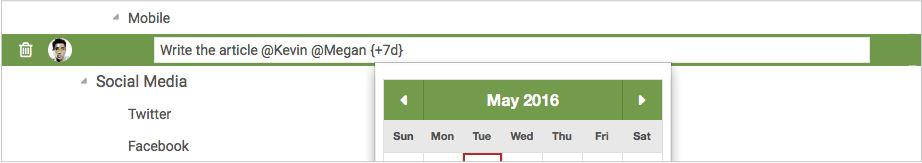
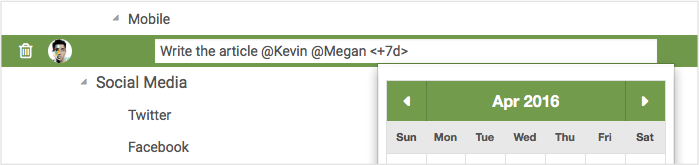
replace <> with {}

diff --git a/_site/p/Type-it-while-you-think-it.html b/_site/p/Type-it-while-you-think-it.html
@@ -3,7 +3,7 @@
 
   <head>
     <!-- meta tag for social website: facebook -->
-    <meta property="og:title" content="Type it while you think it, with @, #, {} and more.">
+    <meta property="og:title" content="Type it while you think it, with @, #, <> and more.">
     <meta property="og:type" content="article">
     <meta property="og:url" content="https://quire.io/blog/p/Type-it-while-you-think-it.html">
     <meta property="og:image" content="https://quire.io/blog2016-04-26-Type-it-while-you-think-it/0.png">
@@ -31,9 +31,7 @@
 
     
       
-      <meta property="article:tag" content="filter">
-      
-      <meta property="article:tag" content="draganddrop">
+      <meta property="article:tag" content="shortcuts">
       
       <meta property="article:tag" content="productivity">
       
@@ -43,7 +41,7 @@
 
     <!-- meta tag for social website: twitter -->
     <meta name="twitter:card" content="summary">
-    <meta name="twitter:title" content="Type it while you think it, with @, #, {} and more.">
+    <meta name="twitter:title" content="Type it while you think it, with @, #, <> and more.">
     <meta name="twitter:description" content="">
     <meta name="twitter:image" content="https://quire.io/blog2016-04-26-Type-it-while-you-think-it/0.png">
     <meta name="twitter:url" content="https://quire.io/blog/p/Type-it-while-you-think-it.html">
@@ -64,7 +62,7 @@
 
     <meta http-equiv="X-UA-Compatible" content="IE=edge">
 
-    <title>Type it while you think it, with @, #, {} and more.</title>
+    <title>Type it while you think it, with @, #, <> and more.</title>
     <meta name="description" content="">
     <meta name="viewport" content="width=device-width, initial-scale=1, maximum-scale=1, user-scalable=no" />
     <meta charset="utf-8" />
@@ -190,7 +188,7 @@
     <h5 class="category">
       <a href="/blog/category/features">features</a> · <span>Apr 26, 2016<span>
     </h5>
-    <h2 class="title">Type it while you think it, with @, #, {} and more.</h2>
+    <h2 class="title">Type it while you think it, with @, #, <> and more.</h2>
     <h5 class="author">
       <img src="/blog/images/author/crystal.png">
       <div>
@@ -200,10 +198,10 @@
     </h5>
     <div class="share">
       
-      <a href="http://twitter.com/share?text=Type it while you think it, with @, #, {} and more.&url=https://quire.io/blog/p/Type-it-while-you-think-it.html&via=quire_io" class="twitter" target="_blank"></a>
+      <a href="http://twitter.com/share?text=Type it while you think it, with @, #, <> and more.&url=https://quire.io/blog/p/Type-it-while-you-think-it.html&via=quire_io" class="twitter" target="_blank"></a>
       <a href="http://www.facebook.com/sharer.php?u=https://quire.io/blog/p/Type-it-while-you-think-it.html" class="fb" target="_blank"></a>
       <a href="https://plus.google.com/share?url=https://quire.io/blog/p/Type-it-while-you-think-it.html" target="_blank" class="gplus"></a>
-      <a href="http://www.linkedin.com/shareArticle?mini=true&url=https://quire.io/blog/p/Type-it-while-you-think-it.html&title=Type it while you think it, with @, #, {} and more.&summary=&source=" target="_blank" class="in"></a>
+      <a href="http://www.linkedin.com/shareArticle?mini=true&url=https://quire.io/blog/p/Type-it-while-you-think-it.html&title=Type it while you think it, with @, #, <> and more.&summary=&source=" target="_blank" class="in"></a>
     </div>
     <span class="clearfix"></span>
   </div>
@@ -212,39 +210,39 @@
 
 <p>Today, you’re bound to have a Q-shaped smile on your face, because we’ve got special productivity-boosting tips for everyone, especially those who’re addicted to keeping your hands on the keyboard! Now, you no longer need to switch between keyboard and mouse while adding and prepping your task.</p>
 
-<p>So what are they? They’re smart keyboard shortcuts. They can help you add assignees, tags and due dates quickly, and more naturally in a single line.</p>
+<p>So what are they? They’re <em>smart</em> keyboard shortcuts. They can help you add assignees, tags and due dates quickly, and more naturally in a single line.</p>
 
 <h2 id="when-you-add-a-new-task">When you add a new task...</h2>
 
 <p>You may want to get David to write an article that’s related to design by May 2nd.</p>
 
-<p>Simply add a task, and type “Write the article <strong>@David #Design {5/2}</strong>” and press Enter.</p>
+<p>Simply add a task, and type “Write the article <strong>@David #Design <5/2></strong>” and press Enter.</p>
 
-<div style="max-width: 700px; max-height: 128px; margin: 0 auto;">
+<div style="max-width: 450; max-height: 110; margin: 0 auto;">
 
 <p><img src="/blog/images/2016-04-26-Type-it-while-you-think-it/1.png" alt="My helpful screenshot" /></p>
 
 </div>
 
-<p>Your task would, of course, be automatically assigned to David, and a due date of May 2nd and the tag Design and.</p>
+<p>Your task would, of course, be automatically assigned to David, and a due date of May 2nd and the tag Design.</p>
 
-<div style="max-width: 700px; max-height: 77px; margin: 0 auto;">
+<div style="max-width: 450; max-height: 68; margin: 0 auto;">
 
 <p><img src="/blog/images/2016-04-26-Type-it-while-you-think-it/2.png" alt="My helpful screenshot" /></p>
 
 </div>
 
-<p>Obviously, when you type @, # or {}, you can use the Up or Down arrow key to select the assignee, tag or due date you want.</p>
+<p>Obviously, when you type @, # or &lt;&gt;, you can use the Up or Down arrow key to select the assignee, tag or due date you want.</p>
 
-<h4 id="note-you-can-see-all-the-input-date-formats-allowed-here"><em>Note: You can see all the input date formats allowed <a href="https://quire.io/w/Getting_Started_with_Quire/85/Auto-set_a_due_date">here</a>.</em></h4>
+<h4 id="note-you-can-see-all-the-input-date-formats-allowed-here">Note: You can see all the input date formats allowed <a href="https://quire.io/w/Getting_Started_with_Quire/85/Auto-set_a_due_date">here</a>.</h4>
 
-<h2 id="when-you-edit-a-task…">When you edit a task…</h2>
+<h2 id="when-you-edit-a-task">When you edit a task…</h2>
 
 <p>You may want to add or change the assignee, tag and due date of an existing task.</p>
 
-<p>It’s like what you’d do when you’re adding a new task. For example, you can type “Write the article <strong>@Kevin @Megan {+7d}</strong>” and press Enter.</p>
+<p>It’s like what you’d do when you’re adding a new task. For example, you can type “Write the article <strong>@Kevin @Megan &lt;+7d&gt;</strong>” and press Enter.</p>
 
-<div style="max-width: 700px; max-height: 124px; margin: 0 auto;">
+<div style="max-width: 450; max-height: 106; margin: 0 auto;">
 
 <p><img src="/blog/images/2016-04-26-Type-it-while-you-think-it/3.png" alt="My helpful screenshot" /></p>
 
@@ -252,23 +250,23 @@
 
 <p>What happens is that this task would be assigned to both Kevin and Megan instead, and has a new due date of May 9th.</p>
 
-<div style="max-width: 700px; max-height: 76px; margin: 0 auto;">
+<div style="max-width: 450; max-height: 71; margin: 0 auto;">
 
 <p><img src="/blog/images/2016-04-26-Type-it-while-you-think-it/4.png" alt="My helpful screenshot" /></p>
 
 </div>
 
-<h2 id="wait-there’s-more">Wait, there’s more!</h2>
+<h2 id="wait-there-s-more">Wait, there’s more!</h2>
 
 <p>There might be a couple extra useful shortcuts you’re not aware of.</p>
 
-<p>To add a task, you can simply press <strong>Ctrl+Enter</strong>. You can even press <strong>Tab</strong> or <strong>Shift+Tab</strong> to make it a subtask (indent) or task (unindent).</p>
+<p>To add a task, you can simply press <strong>Ctrl+Enter</strong>. You can even press <strong>Tab</strong> or <strong>Shift+Tab</strong> to make it a subtask (indent) or task (unindent) while you&#39;re typing the task name.</p>
 
 <p>After you’ve added a task, you can still move it horizontally by pressing <strong>Ctrl+Left</strong> or <strong>Ctrl+Right</strong>. To move it vertically, press <strong>Ctrl+Up</strong> or <strong>Ctrl+Down</strong>.</p>
 
-<p>To delete a task? Like you might have guessed, press <strong>Ctrl+Backspace</strong>.</p>
+<p>To delete a task? Like you might have guessed, press <strong>Ctrl+Delete</strong>.</p>
 
-<p>We’re bringing you the smart shortcuts because it’s natural that when you’re adding a task, you already have an idea who should do it, what priority it should have, and when it should be done. So, instead of choosing them after you add a task, you can now do them all together with <strong>@</strong>, <strong>#</strong> and <strong>{}</strong>.</p>
+<p>We’re bringing you the <em>smart</em> shortcuts because it’s natural that when you’re adding a task, you already have an idea who should do it, what priority it should have, and when it should be done. So, instead of choosing them after you add a task, you can now do them all together with <strong>@</strong>, <strong>#</strong> and <strong>&lt;&gt;</strong>.</p>
 
 <p>There are also a whole other <a href="https://quire.io/w/Getting_Started_with_Quire/11/Navigate_with_shortc...">shortcuts</a> in store you can check out!</p>
 </div>

diff --git a/_site/p/Make-your-Product-Backlog-Speak-the-Whole-Story.html b/_site/p/Make-your-Product-Backlog-Speak-the-Whole-Story.html
@@ -215,7 +215,7 @@
 <p>contains an ordered list of requirements often written in a User Story form. These fragmented “stories” do not give us a clear picture of what the Product is, or what values they bring as a whole.
 The <em>Product Owner</em>, the <em>Development Team</em> and <em>stakeholders</em> all depend on this backlog to fill their roles in Scrum yet this very backbone which they rely on does not present a mental image of the product that’s needed for the team to bring out the product’s value or advantage.</p>
 
-<h3 id="imagine-you’re-a-stakeholder-of-our-latest-task-management-software—-quire">Imagine you’re a stakeholder of our latest task management software— <a href="https://quire.io/">Quire</a></h3>
+<h3 id="imagine-you-re-a-stakeholder-of-our-latest-task-management-software-quire">Imagine you’re a stakeholder of our latest task management software— <a href="https://quire.io/">Quire</a></h3>
 
 <p>and
 you’ll have access to a <em>Product Backlog</em>
@@ -229,7 +229,7 @@ that, by convention, looks something like the list below:</p>
 
 <p>Each of these <em>user stories</em> is self sufficient in portraying a requirement; however, by sorting them with respect to their Return On Investment, we&#39;ve taken each item out of their context—the core value that they contribute to the product.</p>
 
-<h3 id="instead-let’s-try-a-different-approach-in-creating-a-product-backlog-for-quire-with-quire">Instead, let’s try a different approach in creating a Product Backlog for Quire, with <a href="https://quire.io/">Quire</a></h3>
+<h3 id="instead-let-s-try-a-different-approach-in-creating-a-product-backlog-for-quire-with-quire">Instead, let’s try a different approach in creating a Product Backlog for Quire, with <a href="https://quire.io/">Quire</a></h3>
 
 <blockquote>
 <p><strong>We first put down the core values that drive the development of our product:</strong></p>
@@ -272,7 +272,7 @@ If we make the analogy that the product is a tree, then the the epics would be t
 
 </div>
 
-<h4 id="although-it’s-best-to-estimate-efforts-on-tasks-as-a-group-in-a-meeting-room-with-team-members-often-reside-on-different-continents-quire’s-live-chat-feature-is-a-good-alternative">Although it’s best to estimate efforts on tasks as a group in a meeting room, with team members often reside on different continents, Quire’s live chat feature is a good alternative</h4>
+<h4 id="although-it-s-best-to-estimate-efforts-on-tasks-as-a-group-in-a-meeting-room-with-team-members-often-reside-on-different-continents-quire-s-live-chat-feature-is-a-good-alternative">Although it’s best to estimate efforts on tasks as a group in a meeting room, with team members often reside on different continents, Quire’s live chat feature is a good alternative</h4>
 
 <p>During the <em>Spring Planning Meeting</em>, when it comes to picking the items to commit to the next Sprint, team can then use <a href="https://quire.io/">Quire</a>’s filter function to display only the items that are of immediate concern:</p>
 

diff --git a/_site/p/Quire-A-design-hiding-complexity-in-simplicity.html b/_site/p/Quire-A-design-hiding-complexity-in-simplicity.html
@@ -261,7 +261,7 @@
 <p><strong>Now, let’s explore into the design thinking for each of the sections;</strong></p>
 </blockquote>
 
-<h2 id="side-bar — like-a-menu">Side bar — like a menu</h2>
+<h2 id="side-bar-like-a-menu">Side bar — like a menu</h2>
 
 <p>The purpose of the side bar sort of acts like a menu. Unlike a menu of a restaurant which I’m sure you would be willing to take the time to flip back and forth, it is highly unlikely you’d want to do the same to start a day of work like this every morning. To avoid this kind of hassle, we decided to show all the organization and projects you belong to at one glance instead of having to for example drop down a organization before you could see what projects are in it. Having said this, we also wanted it to keep it as simple but as the same time as informative as possible. Therefore we made the appearance of organization and projects different by giving them a different font style. For additional information we display the number of tasks next to the related project.</p>
 
@@ -277,7 +277,7 @@
 
 <hr>
 
-<h2 id="task-list — crystal-clear-tree-structure">Task list — crystal clear tree structure</h2>
+<h2 id="task-list-crystal-clear-tree-structure">Task list — crystal clear tree structure</h2>
 
 <p>If you were a heavy user of powerpoint in high school like me, you gotta love how each slide has a title, some bullet points and sub-bullet points in each bullet point — everything is so crystal clear, like Aladdin and Jasmine on the magic carpet. Well, this is what is commonly known as the “tree structure” or a “hierarchical list” which is conceptualized and used in Quire, showing all your tasks in a hierarchical order.</p>
 
@@ -311,7 +311,7 @@
 
 <hr>
 
-<h2 id="task-detail-panel — meaningful-communication">Task detail panel — meaningful communication</h2>
+<h2 id="task-detail-panel-meaningful-communication">Task detail panel — meaningful communication</h2>
 
 <p>Obviously, not every project or task is so simple and straight forward. Sometimes, you need to add some details, references, or discuss a particular task with your colleagues — these are shown in the detail panel. During our design process we were trying hard to keep this as simple as possible. In the end, we achieved simplicity by the extensive use of progressive disclosure: Want to see more than the first two lines of a description? Expand it. Want to see all activities related to your task? Expand it. Want to write a comment? Click the input field and it automatically expands and gives you more options for your comment.</p>
 

diff --git a/_site/p/See-What-Matters-to-You-with-Filter.html b/_site/p/See-What-Matters-to-You-with-Filter.html
@@ -214,7 +214,7 @@
 
 <p>One way to do this and not be distracted by the remaining tasks is via the “<strong>filter</strong>” function. Simply decide how you would like to see your tasks, and follow the steps.</p>
 
-<h2 id="first-click-on-the-filter-icon…">First, click on the filter icon…</h2>
+<h2 id="first-click-on-the-filter-icon">First, click on the filter icon…</h2>
 
 <p>By clicking on the filter icon below the project’s name, you will see a menu bar.</p>
 
@@ -262,7 +262,7 @@
 
 <hr>
 
-<h2 id="when-you-sort-by…">When you sort by…</h2>
+<h2 id="when-you-sort-by">When you sort by…</h2>
 
 <h3 id="date"><strong>Date</strong></h3>
 
@@ -296,7 +296,7 @@
 
 </div>
 
-<h4 id="note-you-can-click-on-“clear”-in-the-menu-bar-whenever-you-want-to-return-to-the-default-status-which-is-“active-tasks”-without-any-filtering">Note: You can click on “Clear” in the menu bar whenever you want to return to the default status, which is “Active Tasks” without any filtering.</h4>
+<h4 id="note-you-can-click-on-clear-in-the-menu-bar-whenever-you-want-to-return-to-the-default-status-which-is-active-tasks-without-any-filtering">Note: You can click on “Clear” in the menu bar whenever you want to return to the default status, which is “Active Tasks” without any filtering.</h4>
 
 <div style="max-width: 513px; max-height: 40px; margin: 0 auto;">
 
@@ -306,7 +306,7 @@
 
 <hr>
 
-<h2 id="next-when-you-filter-by…">Next, when you filter by…</h2>
+<h2 id="next-when-you-filter-by">Next, when you filter by…</h2>
 
 <h3 id="tag"><strong>Tag</strong></h3>
 

diff --git a/_site/p/Roles-&-Permissions-in-Quire.html b/_site/p/Roles-&-Permissions-in-Quire.html
@@ -224,7 +224,7 @@
 
 <h2 id="project"><strong>Project</strong></h2>
 
-<h3 id="what-you-can-do-in-a-project-if-you-are…">What you can do in a project if you are…</h3>
+<h3 id="what-you-can-do-in-a-project-if-you-are">What you can do in a project if you are…</h3>
 
 <div style="max-width: 877px; max-height: 600px; margin: 0 auto;">
 
@@ -236,7 +236,7 @@
 
 <h2 id="organization"><strong>Organization</strong></h2>
 
-<h3 id="what-you-can-do-with-an-organization-if-you-are…">What you can do with an organization if you are…</h3>
+<h3 id="what-you-can-do-with-an-organization-if-you-are">What you can do with an organization if you are…</h3>
 
 <div style="max-width: 877px; max-height: 231px; margin: 0 auto;">
 
@@ -250,7 +250,7 @@
 
 <h2 id="external-team"><strong>External Team</strong></h2>
 
-<h3 id="what-you-can-do-in-an-external-team-if-you-are…">What you can do in an external team if you are…</h3>
+<h3 id="what-you-can-do-in-an-external-team-if-you-are">What you can do in an external team if you are…</h3>
 
 <div style="max-width: 877px; max-height: 508px; margin: 0 auto;">
 

diff --git a/_site/p/Our-Very-Own-Markdown.html b/_site/p/Our-Very-Own-Markdown.html
@@ -231,7 +231,7 @@
 
 <p>To create a list, add an asterisk and a space before your items. It is just like what you would do if you were using Word or Page, but easier and quicker.</p>
 
-<h3 id="wait-there’s-more"><strong>Wait, there’s more!</strong></h3>
+<h3 id="wait-there-s-more"><strong>Wait, there’s more!</strong></h3>
 
 <p>Sometimes, words just are not enough. Thankfully, you can use emoji icons in the description and comment of a task. If you type a colon, a list of emoji will automatically show up:</p>
 

diff --git a/_site/index.html b/_site/index.html
@@ -173,7 +173,7 @@
         <div class="post-meta">
           <div class="left-meta">
             <h5 class="category">features</h5>
-            <a href="/blog/p/Type-it-while-you-think-it.html" class="title">Type it while you think it, with @, #, {} and more.</a>
+            <a href="/blog/p/Type-it-while-you-think-it.html" class="title">Type it while you think it, with @, #, <> and more.</a>
             <h5 class="author">
               POSTED BY Crystal Chen · Apr 26, 2016
             </h5>

diff --git a/_site/p/A-plan-well-laid-a-party-well-played.html b/_site/p/A-plan-well-laid-a-party-well-played.html
@@ -56,7 +56,7 @@
     <link rel="canonical" href="https://quire.io/blog/p/A-plan-well-laid-a-party-well-played.html">
 
     
-      <link rel="next" href="https://quire.io/blog/p/Type-it-while-you-think-it.html" title="Type it while you think it, with @, #, {} and more.">
+      <link rel="next" href="https://quire.io/blog/p/Type-it-while-you-think-it.html" title="Type it while you think it, with @, #, <> and more.">
     
 
     

diff --git a/_site/p/Why-We-Abandoned-the-To-Do-List.html b/_site/p/Why-We-Abandoned-the-To-Do-List.html
@@ -296,7 +296,7 @@
 
 <hr>
 
-<h3 id="our-solution-is-to-preserve-tasks’-natural-hierarchy-in-a-tree-structure">Our solution is to preserve tasks’ natural hierarchy in a tree structure</h3>
+<h3 id="our-solution-is-to-preserve-tasks-natural-hierarchy-in-a-tree-structure">Our solution is to preserve tasks’ natural hierarchy in a tree structure</h3>
 
 <div style="max-width: 600px; max-height: 317px; margin: 0 auto;">
 

diff --git a/_site/p/Template-for-Your-Projects-and-Tasks.html b/_site/p/Template-for-Your-Projects-and-Tasks.html
@@ -324,7 +324,7 @@
 
 <p>Now, when you have similar projects in your organization or similar tasks across your project, you know how to make a template for them.</p>
 
-<h2 id="there’ll-be-more-to-come"><div style="text-align:center;">There’ll be more to come!<div></h2>
+<h2 id="there-ll-be-more-to-come"><div style="text-align:center;">There’ll be more to come!<div></h2>
 </div>
     <div class="bottom">
       <hr>

diff --git a/_site/category/features/index.html b/_site/category/features/index.html
@@ -169,7 +169,7 @@
       <h5>
         POSTED BY Crystal Chen · Apr 26, 2016
       </h5>
-      <h3>Type it while you think it, with @, #, {} and more.</h3>
+      <h3>Type it while you think it, with @, #, <> and more.</h3>
       <h5>“Today, you’re bound to have a Q-shaped smile on your face, because we’ve got special productivity-boosting tips for everyone...</h5>
     </a>
   

diff --git a/_site/p/WOW-moments-of-Quire!.html b/_site/p/WOW-moments-of-Quire!.html
@@ -212,7 +212,7 @@
 
 <p>Have you ever experienced the</p>
 
-<h2 id="“wow-moment”"><div style="text-align:center;"><strong>“wow! moment”</strong><div></h2>
+<h2 id="wow-moment"><div style="text-align:center;"><strong>“wow! moment”</strong><div></h2>
 
 <p>when playing apps on your phone or working on a computer?</p>
 
